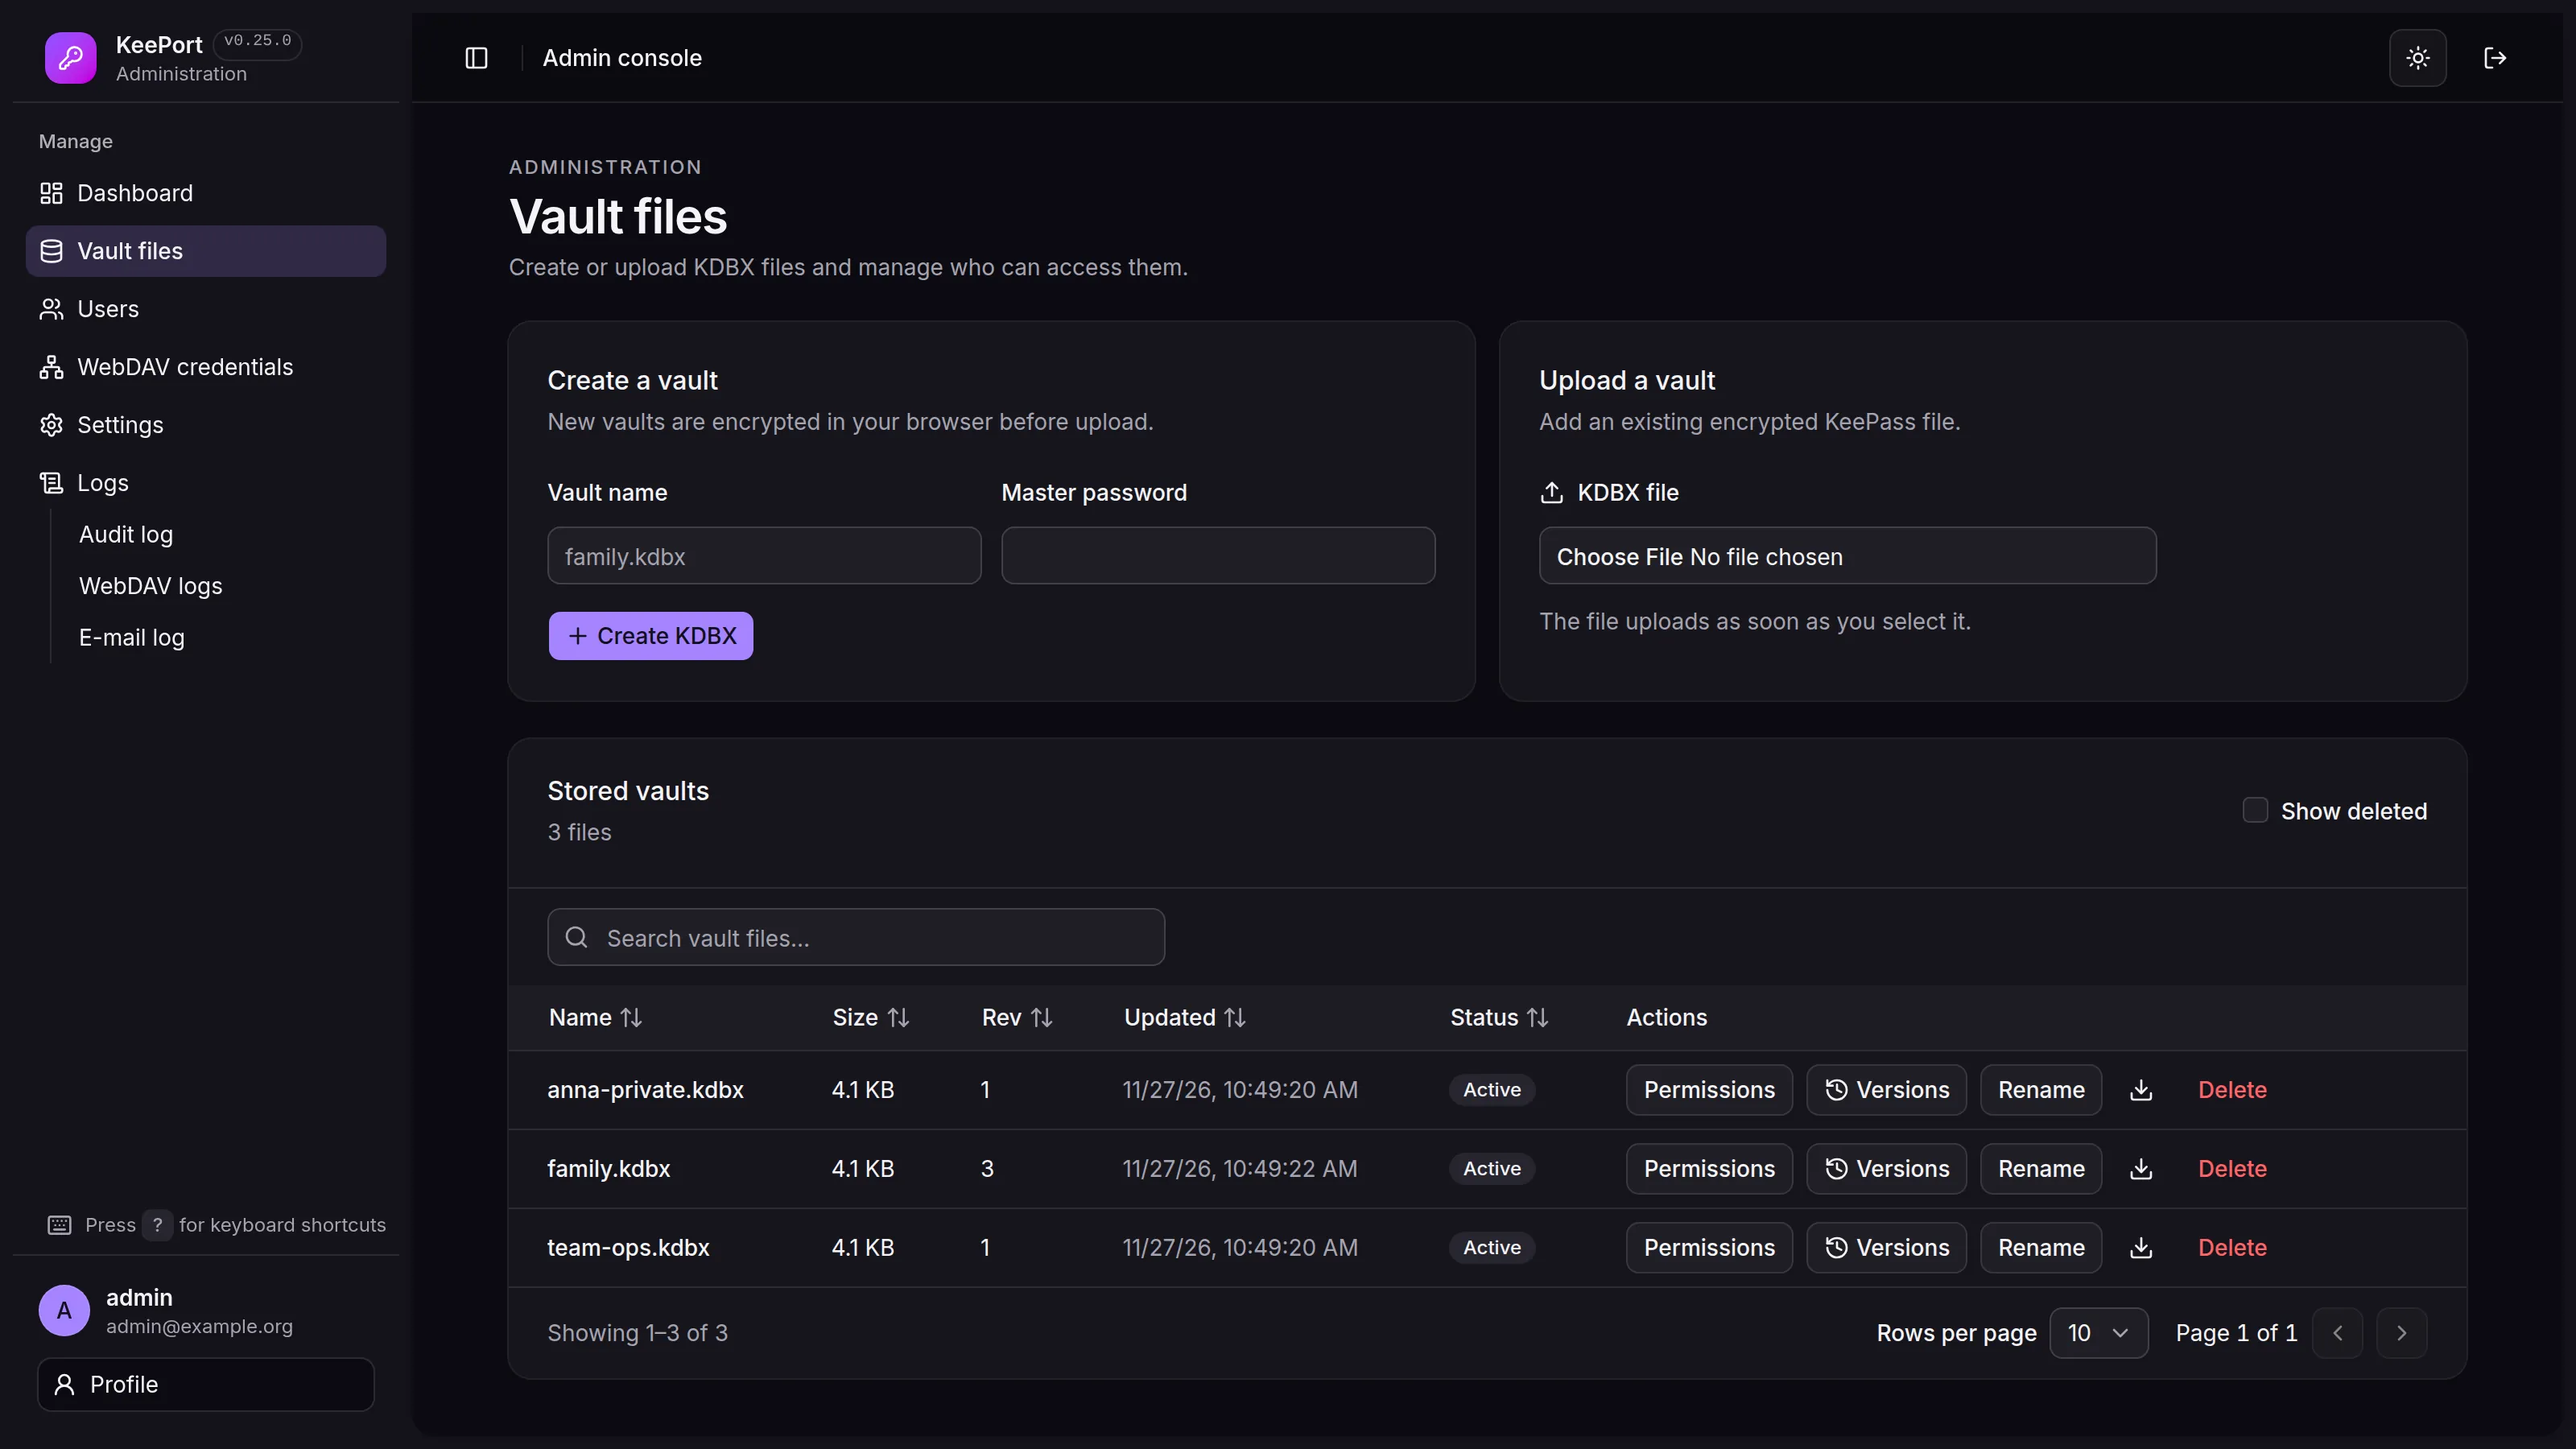
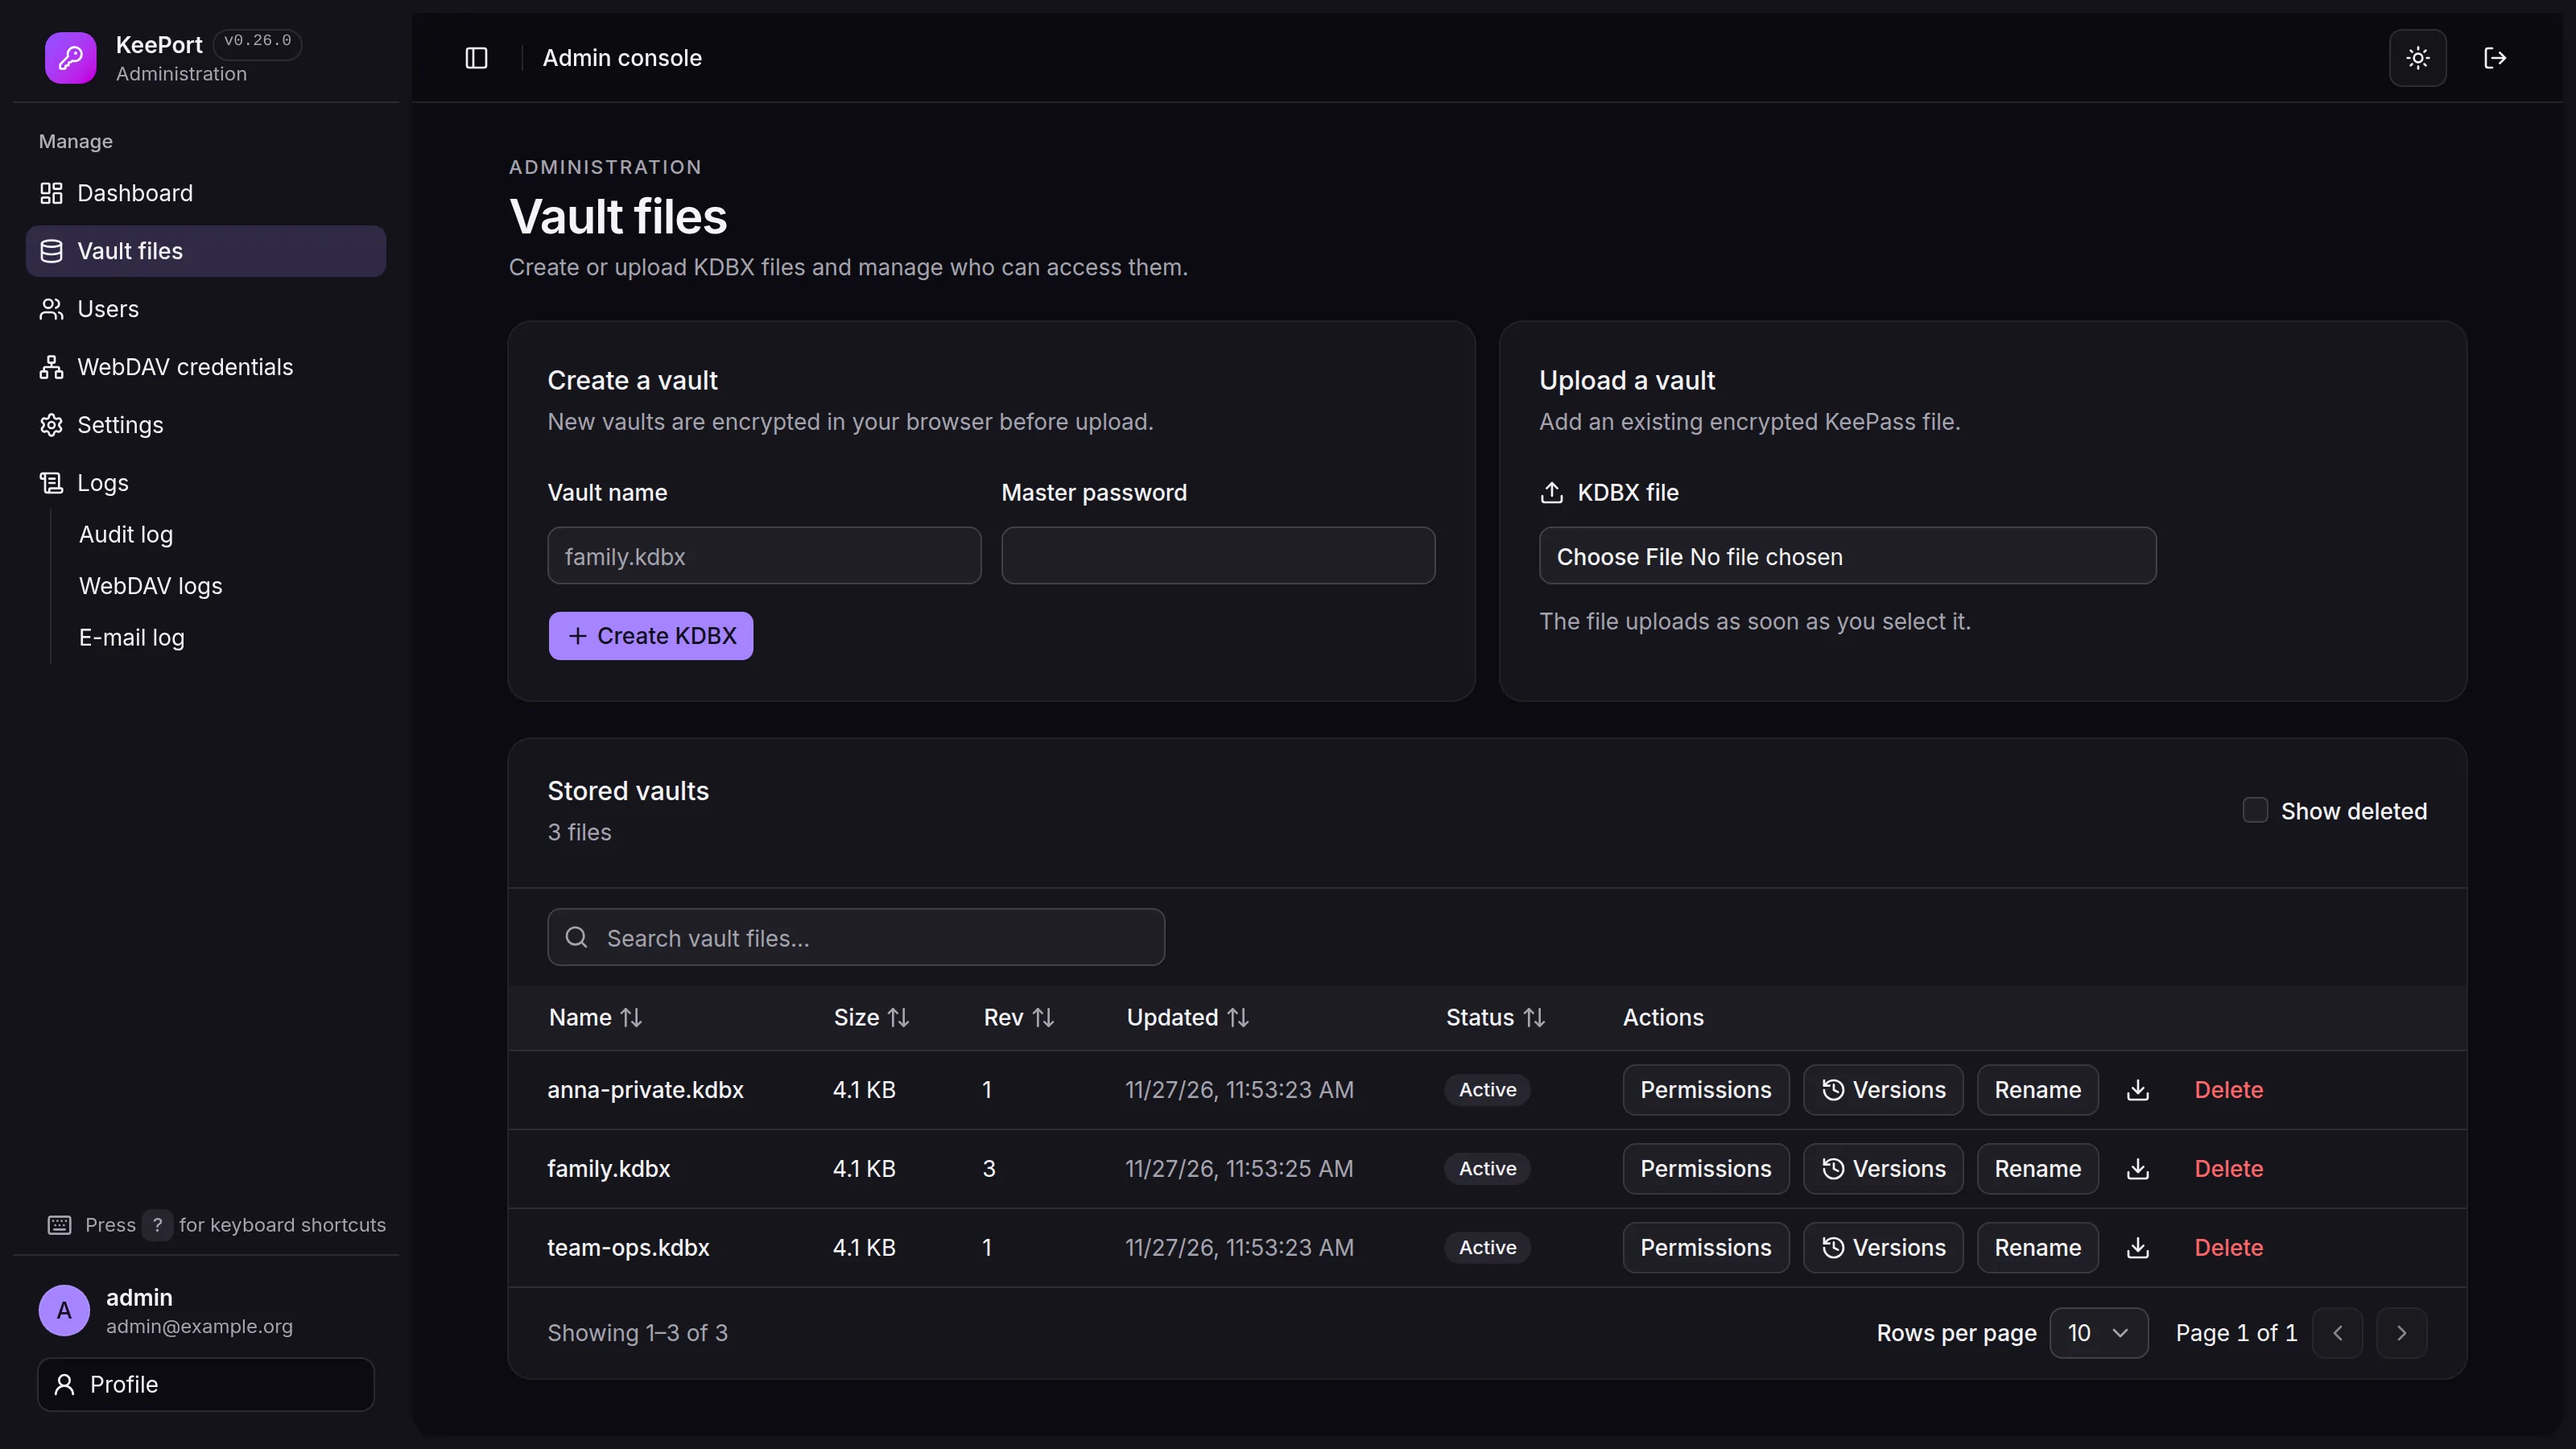
chore(release): 0.26.0

diff --git a/docs/DEPLOYMENT.md b/docs/DEPLOYMENT.md
@@ -21,7 +21,7 @@
 All paths use the same `docker-compose.yml` and end with the same [first steps in the admin console](#-first-steps-in-the-admin-console).
 
 > [!IMPORTANT]
-> Always install a **release** (for example `v0.25.0`), not the development branch. The latest version is listed on the [Releases page](https://github.com/madcoda9000/KeePort/releases). The examples below use `v0.25.0`.
+> Always install a **release** (for example `v0.26.0`), not the development branch. The latest version is listed on the [Releases page](https://github.com/madcoda9000/KeePort/releases). The examples below use `v0.26.0`.
 
 ## 🧩 How the pieces fit together
 
@@ -98,8 +98,8 @@ ssh your-user@192.168.1.20
 cd /volume1/docker
 
 # Download and unpack the release
-curl -L https://github.com/madcoda9000/KeePort/archive/refs/tags/v0.25.0.tar.gz | tar xz
-mv KeePort-0.25.0 keeport
+curl -L https://github.com/madcoda9000/KeePort/archive/refs/tags/v0.26.0.tar.gz | tar xz
+mv KeePort-0.26.0 keeport
 
 # Data folder outside the app folder, writable by the container user (UID 1000)
 sudo mkdir -p /volume1/docker/keeport-data
@@ -197,8 +197,8 @@ docker start keeport
 ssh admin@192.168.1.30
 cd /share/Container
 
-curl -L https://github.com/madcoda9000/KeePort/archive/refs/tags/v0.25.0.tar.gz | tar xz
-mv KeePort-0.25.0 keeport
+curl -L https://github.com/madcoda9000/KeePort/archive/refs/tags/v0.26.0.tar.gz | tar xz
+mv KeePort-0.26.0 keeport
 
 mkdir -p /share/Container/keeport-data
 chown -R 1000:1000 /share/Container/keeport-data
@@ -254,7 +254,7 @@ Add `Container/keeport-data` to a **Hybrid Backup Sync** job. For a fully consis
 For a home server or VPS with Docker Engine and the Compose v2 plugin.
 
 ```bash
-git clone --branch v0.25.0 https://github.com/madcoda9000/KeePort.git
+git clone --branch v0.26.0 https://github.com/madcoda9000/KeePort.git
 cd KeePort
 cp .env.example .env
 docker compose up -d --build
@@ -520,7 +520,7 @@ Read the [changelog](../CHANGELOG.md) and make a [backup](#-backup--restore) fir
 ```bash
 cd /volume1/docker                         # QNAP: cd /share/Container
 sudo bash keeport/scripts/keeport-update.sh          # latest release
-sudo bash keeport/scripts/keeport-update.sh v0.25.0   # or a specific one
+sudo bash keeport/scripts/keeport-update.sh v0.26.0   # or a specific one
 ```
 
 On QNAP, prefix the command with `BASE_DIR=/share/Container`. The script:
@@ -539,8 +539,8 @@ It never deletes anything — it prints the cleanup commands at the end. Set `YE
 ```bash
 cd /volume1/docker                # QNAP: cd /share/Container
 mv keeport keeport-old
-curl -L https://github.com/madcoda9000/KeePort/archive/refs/tags/v0.25.0.tar.gz | tar xz
-mv KeePort-0.25.0 keeport
+curl -L https://github.com/madcoda9000/KeePort/archive/refs/tags/v0.26.0.tar.gz | tar xz
+mv KeePort-0.26.0 keeport
 cp keeport-old/.env keeport/
 cd keeport
 sudo docker compose up -d --build # QNAP: without sudo
@@ -554,7 +554,7 @@ Delete `keeport-old` once everything works. If you installed via Container Manag
 ```bash
 cd KeePort
 git fetch --tags
-git checkout v0.25.0
+git checkout v0.26.0
 docker compose up -d --build
 ```
 

diff --git a/README.md b/README.md
@@ -23,7 +23,7 @@
 </div>
 
 > [!NOTE]
-> KeePort is in **beta** (`v0.25.0`). Keep regular backups of your `.kdbx` files and of the `/data` volume.
+> KeePort is in **beta** (`v0.26.0`). Keep regular backups of your `.kdbx` files and of the `/data` volume.
 >
 > The **[user manual](https://github.com/madcoda9000/KeePort/wiki)** in the wiki explains every page of the admin console and the web vault step by step.
 
@@ -144,7 +144,7 @@ KeePass files are great: open format, strong encryption, dozens of apps. Keeping
 
 ```bash
 # Check out the latest release (not the development branch)
-git clone --branch v0.25.0 https://github.com/madcoda9000/KeePort.git
+git clone --branch v0.26.0 https://github.com/madcoda9000/KeePort.git
 cd KeePort
 
 cp .env.example .env
@@ -175,7 +175,7 @@ Open the admin console with **`https://`**. Your browser warns once about the se
 ```bash
 cd KeePort
 git fetch --tags
-git checkout v0.25.0          # the release you want, see the Releases page
+git checkout v0.26.0          # the release you want, see the Releases page
 docker compose up -d --build
 ```
 
